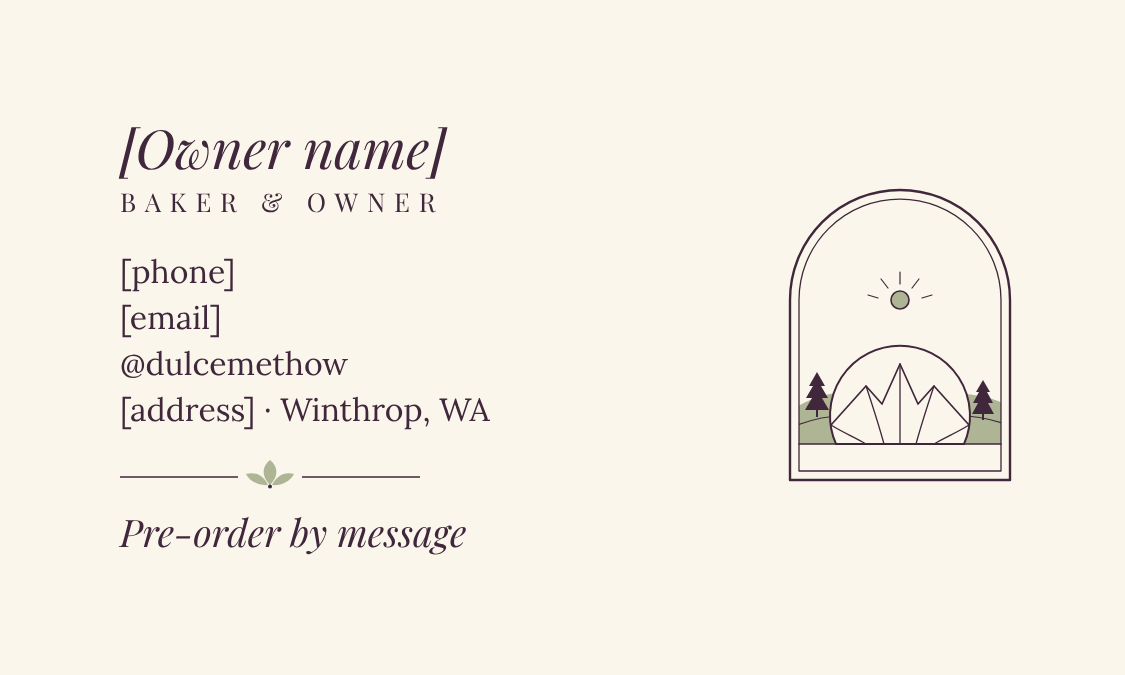
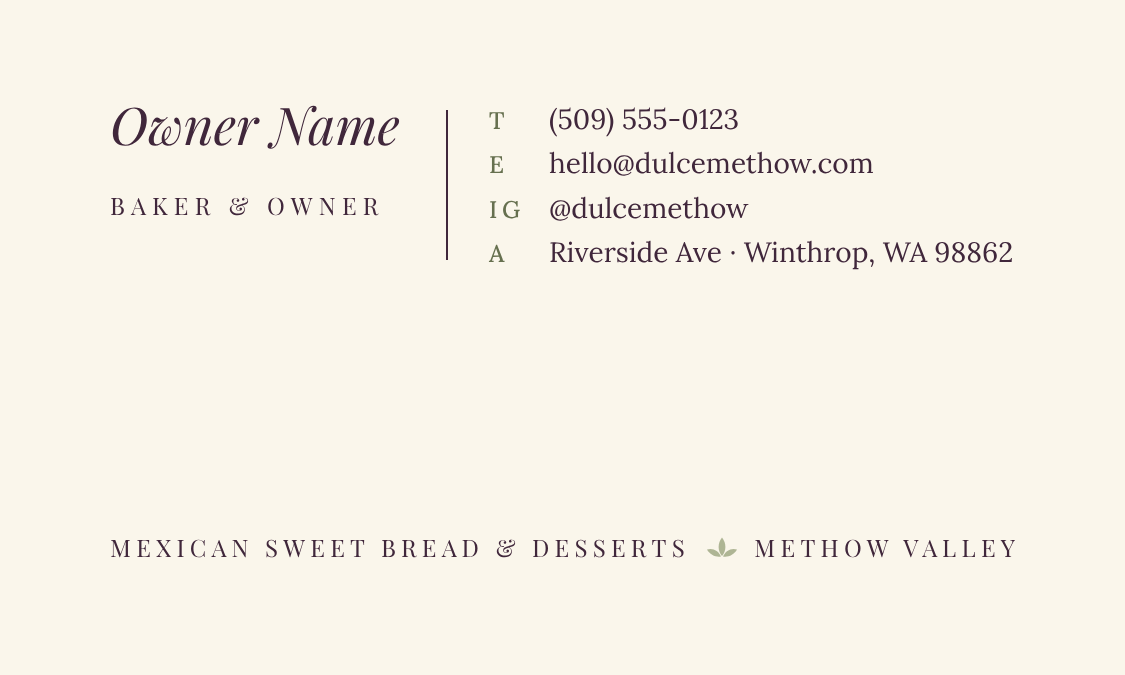
Redesign Dulce Methow business card 3 (valley landscape)
Claude-Session: https://claude.ai/code/session_013XA8P2WAmpXZJM5TfkydHJ

diff --git a/dulce-methow/tarjetas/1-arco-clasico/back.html b/dulce-methow/tarjetas/1-arco-clasico/back.html
@@ -5,118 +5,106 @@
 <title>Dulce Methow card, back</title>
 <link rel="stylesheet" href="https://fonts.googleapis.com/css2?family=Lora:ital,wght@0,400;0,500;1,400&family=Playfair+Display:ital,wght@0,400;0,600;1,400;1,500&display=swap">
 <style>
+  /* Grid: trim margin 110 px on every side (x 110–1015, y 110–565).
+     Column line at x 447; left column 110–405, right column 489–1015. */
+  :root {
+    --cream: #FAF6EB;
+    --plum: #40273B;
+    --sage: #AEB594;
+    --sage-dark: #66704F;
+    --lh: 43.4px;            /* 28 px × 1.55, the baseline step of the contact column */
+  }
   body { margin: 0; }
   .card {
     position: relative;
     width: 1125px; height: 675px;
     overflow: hidden;
-    background: #FAF6EB;
-    color: #40273B;
+    background: var(--cream);
+    color: var(--plum);
   }
-  .contact {
-    position: absolute;
-    left: 120px; top: 118px;
-    width: 560px;
-  }
+
+  /* left column: name + role */
+  .who { position: absolute; left: 110px; top: 0; width: 300px; }
   .name {
+    position: absolute; left: 0; top: var(--name-top, 92px);
+    margin: 0; white-space: nowrap;
     font-family: 'Playfair Display', serif;
     font-style: italic; font-weight: 400;
-    font-size: 54px; line-height: 1.1;
-    margin: 0;
+    font-size: 52px; line-height: 64px;
   }
   .role {
+    position: absolute; left: 0; top: var(--role-top, 190px);
+    margin: 0; white-space: nowrap;
     font-family: 'Playfair Display', serif;
-    font-size: 26px; line-height: 1;
-    letter-spacing: 0.34em;
+    font-size: 24px; line-height: 30px;
+    letter-spacing: 0.26em;
     text-transform: uppercase;
-    margin: 12px 0 34px;
   }
-  .lines {
-    font-family: 'Lora', serif;
-    font-size: 32px; line-height: 46px;
+
+  /* the one structural line: 2 px hairline on the column line */
+  .rule {
+    position: absolute; left: 446px; width: 2px;
+    top: var(--rule-top, 110px); height: var(--rule-h, 150px);
+    background: var(--plum);
+  }
+
+  /* right column: labelled contact lines */
+  .contact {
+    position: absolute; left: 489px; top: var(--contact-top, 98px);
     margin: 0; padding: 0; list-style: none;
+    font-family: 'Lora', serif;
+    font-size: 28px; line-height: var(--lh);
+    white-space: nowrap;
   }
-  .sprig { display: block; margin: 26px 0 22px; }
-  .cta {
+  .contact li { display: flex; align-items: baseline; }
+  .contact .k {
+    flex: 0 0 60px;
+    font-family: 'Lora', serif; font-weight: 500;
+    font-size: 24px; letter-spacing: 0.2em;
+    color: var(--sage-dark);
+  }
+
+  /* bottom margin: tagline spanning the full measure, the sprig is its only ornament */
+  .tagline {
+    position: absolute; left: 110px; right: 110px; top: var(--tag-top, 532px);
+    display: flex; align-items: center; justify-content: space-between;
     font-family: 'Playfair Display', serif;
-    font-style: italic; font-weight: 400;
-    font-size: 38px; line-height: 1.1;
-    margin: 0;
+    font-size: 24px; line-height: 30px;
+    letter-spacing: 0.22em;
+    text-transform: uppercase;
+    white-space: nowrap;
   }
-  .emblem { position: absolute; left: 0; top: 0; }
+  /* remove the trailing tracking so the last letter sits exactly on the right margin */
+  .tagline .end { margin-right: -0.22em; }
+  .tagline svg { flex: 0 0 auto; display: block; }
 </style>
 </head>
 <body>
 <div class="card">
-  <div class="contact">
-    <p class="name">[Owner name]</p>
-    <div class="role">Baker &amp; owner</div>
-    <ul class="lines">
-      <li>[phone]</li>
-      <li>[email]</li>
-      <li>@dulcemethow</li>
-      <li>[address] · Winthrop, WA</li>
-    </ul>
-    <!-- sage leaf sprig divider -->
-    <svg class="sprig" width="300" height="30" viewBox="0 0 300 30" fill="none">
-      <line x1="0" y1="18" x2="118" y2="18" stroke="#40273B" stroke-width="1.4"/>
-      <line x1="182" y1="18" x2="300" y2="18" stroke="#40273B" stroke-width="1.4"/>
-      <!-- center leaf -->
-      <path d="M150 26 C141 17 142 7 150 1 C158 7 159 17 150 26 Z" fill="#AEB594"/>
-      <!-- side leaves -->
-      <path d="M148 26 C140 27 130 23 126 15 C135 12 144 17 148 26 Z" fill="#AEB594"/>
-      <path d="M152 26 C160 27 170 23 174 15 C165 12 156 17 152 26 Z" fill="#AEB594"/>
-      <circle cx="150" cy="27.5" r="2" fill="#40273B"/>
-    </svg>
-    <p class="cta">Pre-order by message</p>
+  <div class="who">
+    <p class="name">Owner Name</p>
+    <p class="role">Baker &amp; Owner</p>
   </div>
 
-  <!-- small arch emblem echoing the front: double arch, sun, hills, pines, concha whose scored lines become peaks -->
-  <svg class="emblem" width="1125" height="675" viewBox="0 0 1125 675" fill="none" stroke="#40273B" stroke-linecap="round" stroke-linejoin="round">
-    <defs>
-      <clipPath id="inside"><path d="M799 471 V300 A101 101 0 0 1 1001 300 V471 Z"/></clipPath>
-    </defs>
-    <g clip-path="url(#inside)">
-      <!-- soft sage hills -->
-      <path d="M795 408 C830 386 870 388 905 410 C935 392 970 388 1005 404 V444 H795 Z" fill="#AEB594" stroke="none"/>
-      <path d="M795 426 C830 412 860 414 880 424" stroke-width="1.1"/>
-      <path d="M1005 424 C970 412 940 414 920 424" stroke-width="1.1"/>
-    </g>
-    <!-- slim pines -->
-    <g fill="#40273B" stroke="none">
-      <path d="M817 372 L825 386 H821 L828 398 H822 L829 410 H805 L812 398 H806 L813 386 H809 Z"/>
-      <rect x="816" y="410" width="2" height="7"/>
-      <path d="M983 380 L990 392 H987 L993 403 H988 L994 414 H972 L978 403 H973 L979 392 H976 Z"/>
-      <rect x="982" y="414" width="2" height="6"/>
-    </g>
+  <div class="rule"></div>
 
-    <!-- double arch: outer x 790–1010, top 190, bottom 480 -->
-    <path d="M790 480 V300 A110 110 0 0 1 1010 300 V480 Z" stroke-width="2.4"/>
-    <path d="M799 471 V300 A101 101 0 0 1 1001 300 V471 Z" stroke-width="1.3"/>
+  <ul class="contact">
+    <li><span class="k">T</span><span>(509) 555-0123</span></li>
+    <li><span class="k">E</span><span>hello@dulcemethow.com</span></li>
+    <li><span class="k">IG</span><span>@dulcemethow</span></li>
+    <li><span class="k">A</span><span>Riverside Ave · Winthrop, WA 98862</span></li>
+  </ul>
 
-    <!-- sun with fine rays -->
-    <circle cx="900" cy="300" r="9" fill="#AEB594" stroke-width="1.6"/>
-    <g stroke-width="1.2">
-      <line x1="900" y1="284" x2="900" y2="272"/>
-      <line x1="888" y1="288" x2="881" y2="279"/>
-      <line x1="912" y1="288" x2="919" y2="279"/>
-      <line x1="878" y1="298" x2="868" y2="295"/>
-      <line x1="922" y1="298" x2="932" y2="295"/>
-    </g>
-
-    <!-- concha dome on the horizon -->
-    <path d="M836 444 A70 70 0 1 1 964 444 Z" fill="#FAF6EB" stroke-width="2"/>
-    <!-- scored lines rising into three peaks -->
-    <path d="M831 425 L866 386 L882 404 L900 364 L918 404 L934 386 L969 425" stroke-width="1.7"/>
-    <path d="M900 444 C900 417 900 392 900 364" stroke-width="1.3"/>
-    <path d="M884 444 C878 422 872 404 866 386" stroke-width="1.3"/>
-    <path d="M916 444 C922 422 928 404 934 386" stroke-width="1.3"/>
-    <path d="M866 444 C856 438 842 432 831 425" stroke-width="1.3"/>
-    <path d="M934 444 C944 438 958 432 969 425" stroke-width="1.3"/>
-
-    <!-- horizon line -->
-    <line x1="799" y1="444" x2="1001" y2="444" stroke-width="1.6"/>
-  </svg>
+  <div class="tagline">
+    <span>Mexican sweet bread &amp; desserts</span>
+    <svg width="32" height="22" viewBox="0 0 32 22" aria-hidden="true">
+      <!-- three-leaf sprig, as in the logo -->
+      <path d="M16 20 C11.5 15 11.5 7 16 1.5 C20.5 7 20.5 15 16 20 Z" fill="#AEB594"/>
+      <path d="M15 20.5 C10 21.5 4 19 1 13.5 C6.5 11.5 12.5 14.5 15 20.5 Z" fill="#AEB594"/>
+      <path d="M17 20.5 C22 21.5 28 19 31 13.5 C25.5 11.5 19.5 14.5 17 20.5 Z" fill="#AEB594"/>
+    </svg>
+    <span class="end">Methow Valley</span>
+  </div>
 </div>
 </body>
 </html>

diff --git a/dulce-methow/tarjetas/4-kraft-sello/back.html b/dulce-methow/tarjetas/4-kraft-sello/back.html
@@ -19,7 +19,7 @@
   .foot{position:absolute;left:110px;right:110px;bottom:110px;display:flex;justify-content:space-between;align-items:baseline;line-height:1}
   .name{margin:0;display:flex;align-items:baseline}
   .name .lab{font-family:'Lora',serif;font-weight:500;font-size:24px;letter-spacing:.22em;text-transform:uppercase;color:var(--sagedark)}
-  .name .blank{display:inline-block;width:330px;height:2px;background:var(--plum);margin-left:16px}
+  .name .blank{display:inline-block;width:312px;height:2px;background:var(--plum);margin-left:16px}
   .handle{margin:0;font-family:'Lora',serif;font-size:28px;line-height:1}
   .num{font-family:'Lora',serif;font-size:24px;letter-spacing:.12em;fill:#66704F}
 </style>
